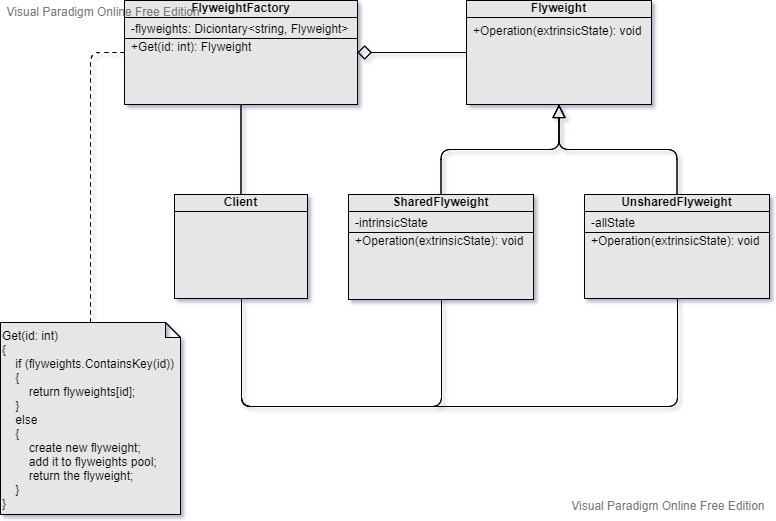
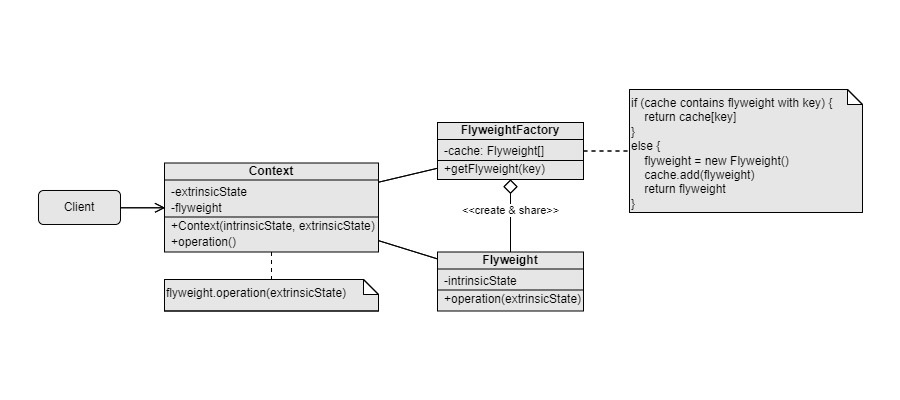
Revise readme and UML diagram of Flyweight design pattern

diff --git a/flyWeight/README.md b/flyWeight/README.md
@@ -1,12 +1,11 @@
 Flyweight
 ===
-Scenario: When many small groups of attributes are immutable and can be shared through objects.
+Scenario: There are objects or properties that use a lot of memory will not be changed after they are created (immutable) and can be used by multiple objects. 
 
-Pattern: There exists a shared version and an unshared version of attributes classes that inherits the same interface. A factory that stores all shared versions of attributes, like an object pool. Client gets a shared version of attributes through the factory. If necessary, clients replace the shared version of attributes with the unshared version, so data can be modified.
+Intrinsic and extrinsic states:
+- Intrinsic state: The immutable data of the object.
+- Extrinsic state: The data from the outside.
 
-Examples:
-- A character includes level, health, mana, move speed, weapon, AI….
-- Bullet and magic spell object pool
-
+Examples: Render high texture models on the UI.
 
 ![UML](UML.jpg)
